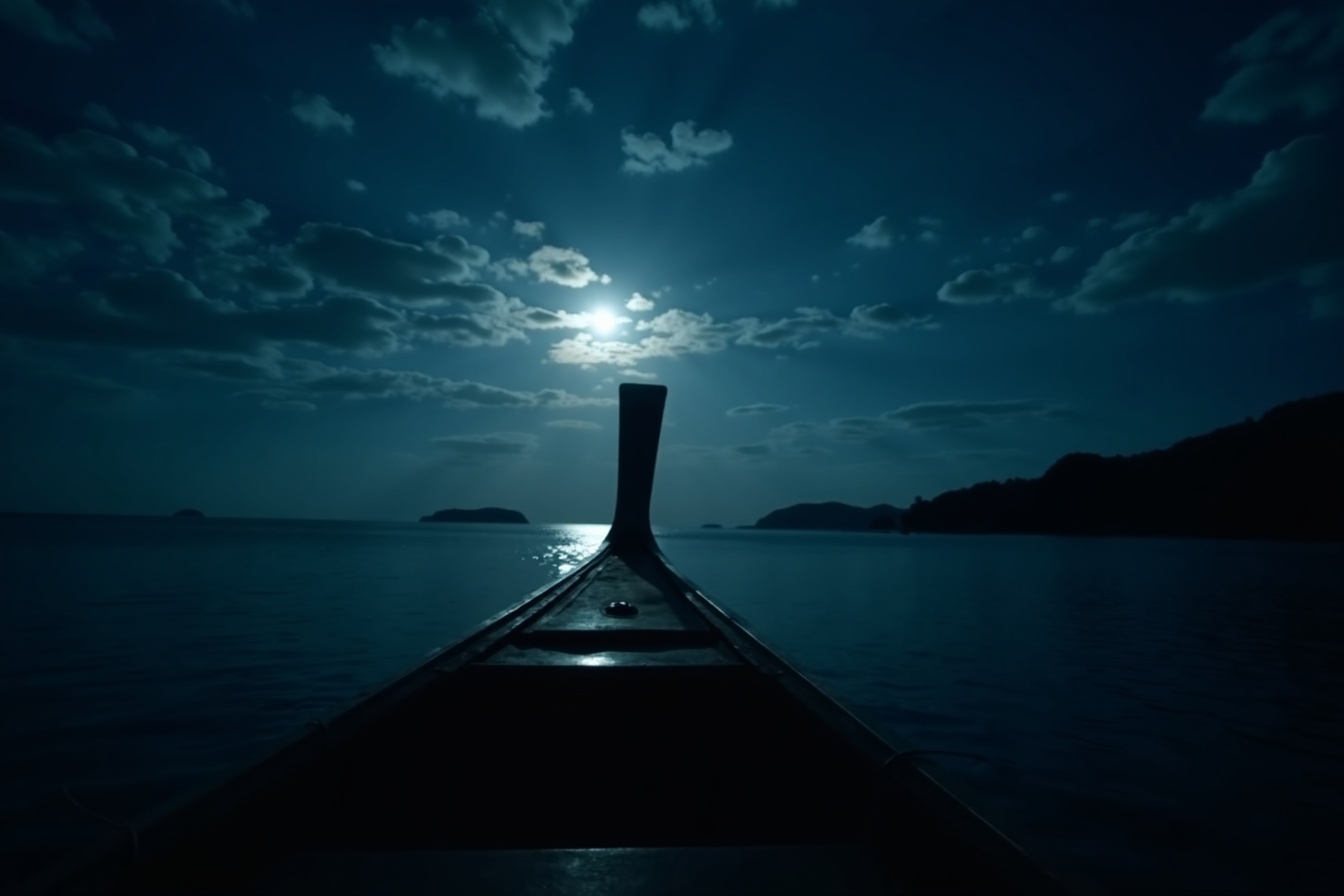
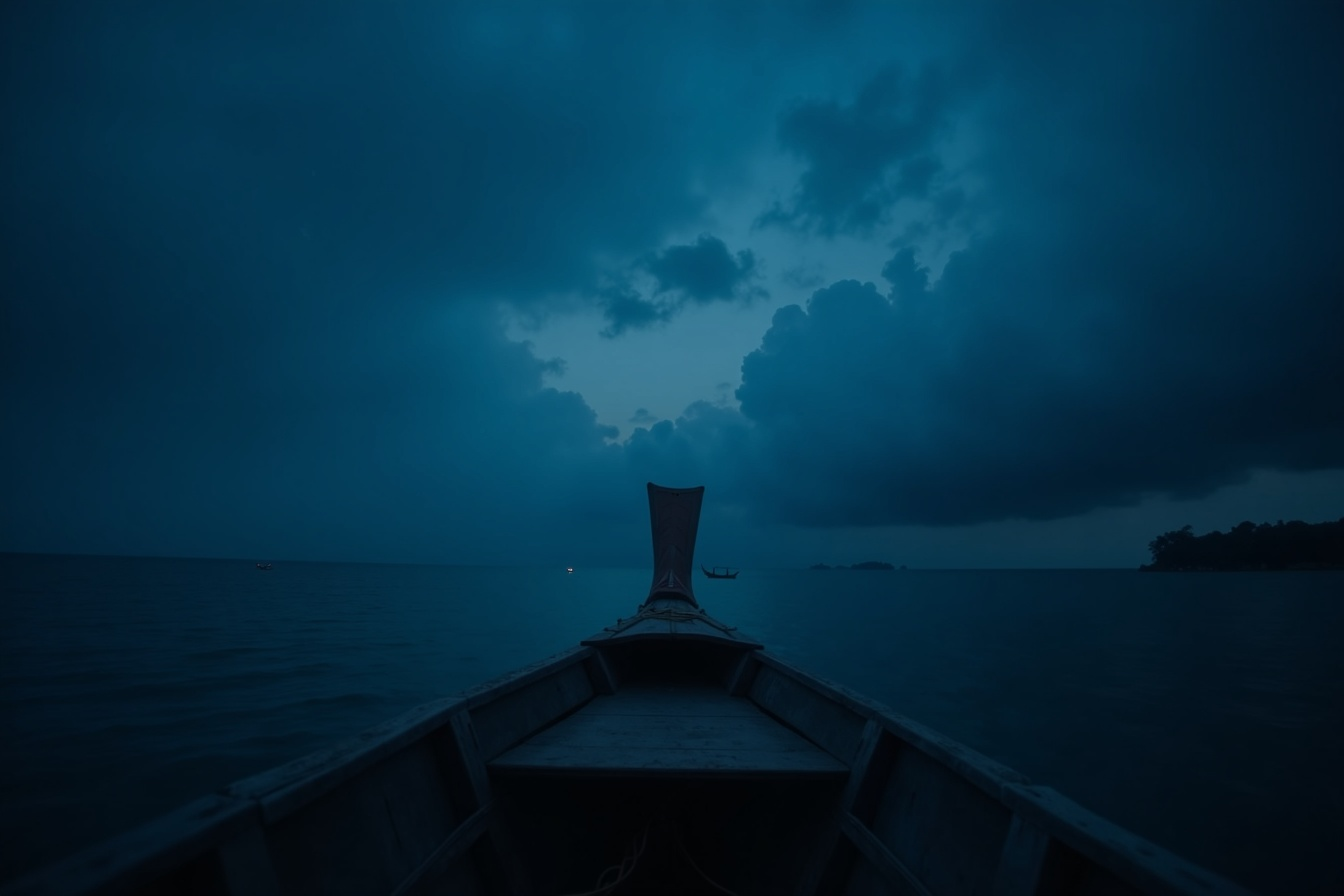
Koh Pha-ngan Bild 9+10: kein Himmelskörper statt sonnenartiger Scheibe
Auf „Wilde Ostküste" und „Auf dem Golf" wurde der Mond weiter als
sonnenartiger heller Ball (bzw. Lichtdurchbruch mit Strahlen) gelesen.
Auf Userwunsch jetzt WEDER Sonne NOCH Mond im Bild: dunkle tropische
Nacht, gleichmäßig dunkler/bewölkter Himmel ohne Scheibe, Lichtfleck
oder Lichtstrahlen (Bild 10 mit geschlossener Wolkendecke). Caption von
Bild 10 entsprechend angepasst (kein durchbrechender Mond mehr).

diff --git a/src/tours.js b/src/tours.js
@@ -831,7 +831,7 @@ export const TOURS = {
       {
         src: '/photos/kohphangan/10-longtail.jpg',
         title: 'Auf dem Golf',
-        caption: 'Longtail auf dem Golf — der Regen ist vorbei, zwischen den Wolken bricht der Vollmond durch und legt Silber aufs Wasser.',
+        caption: 'Longtail auf dem Golf — der Regen ist vorbei, unter dichten Wolken gleitet das Boot durch die dunkle Nacht über den weiten Golf.',
         anchor: [100.0845, 9.718], // water
       },
       {